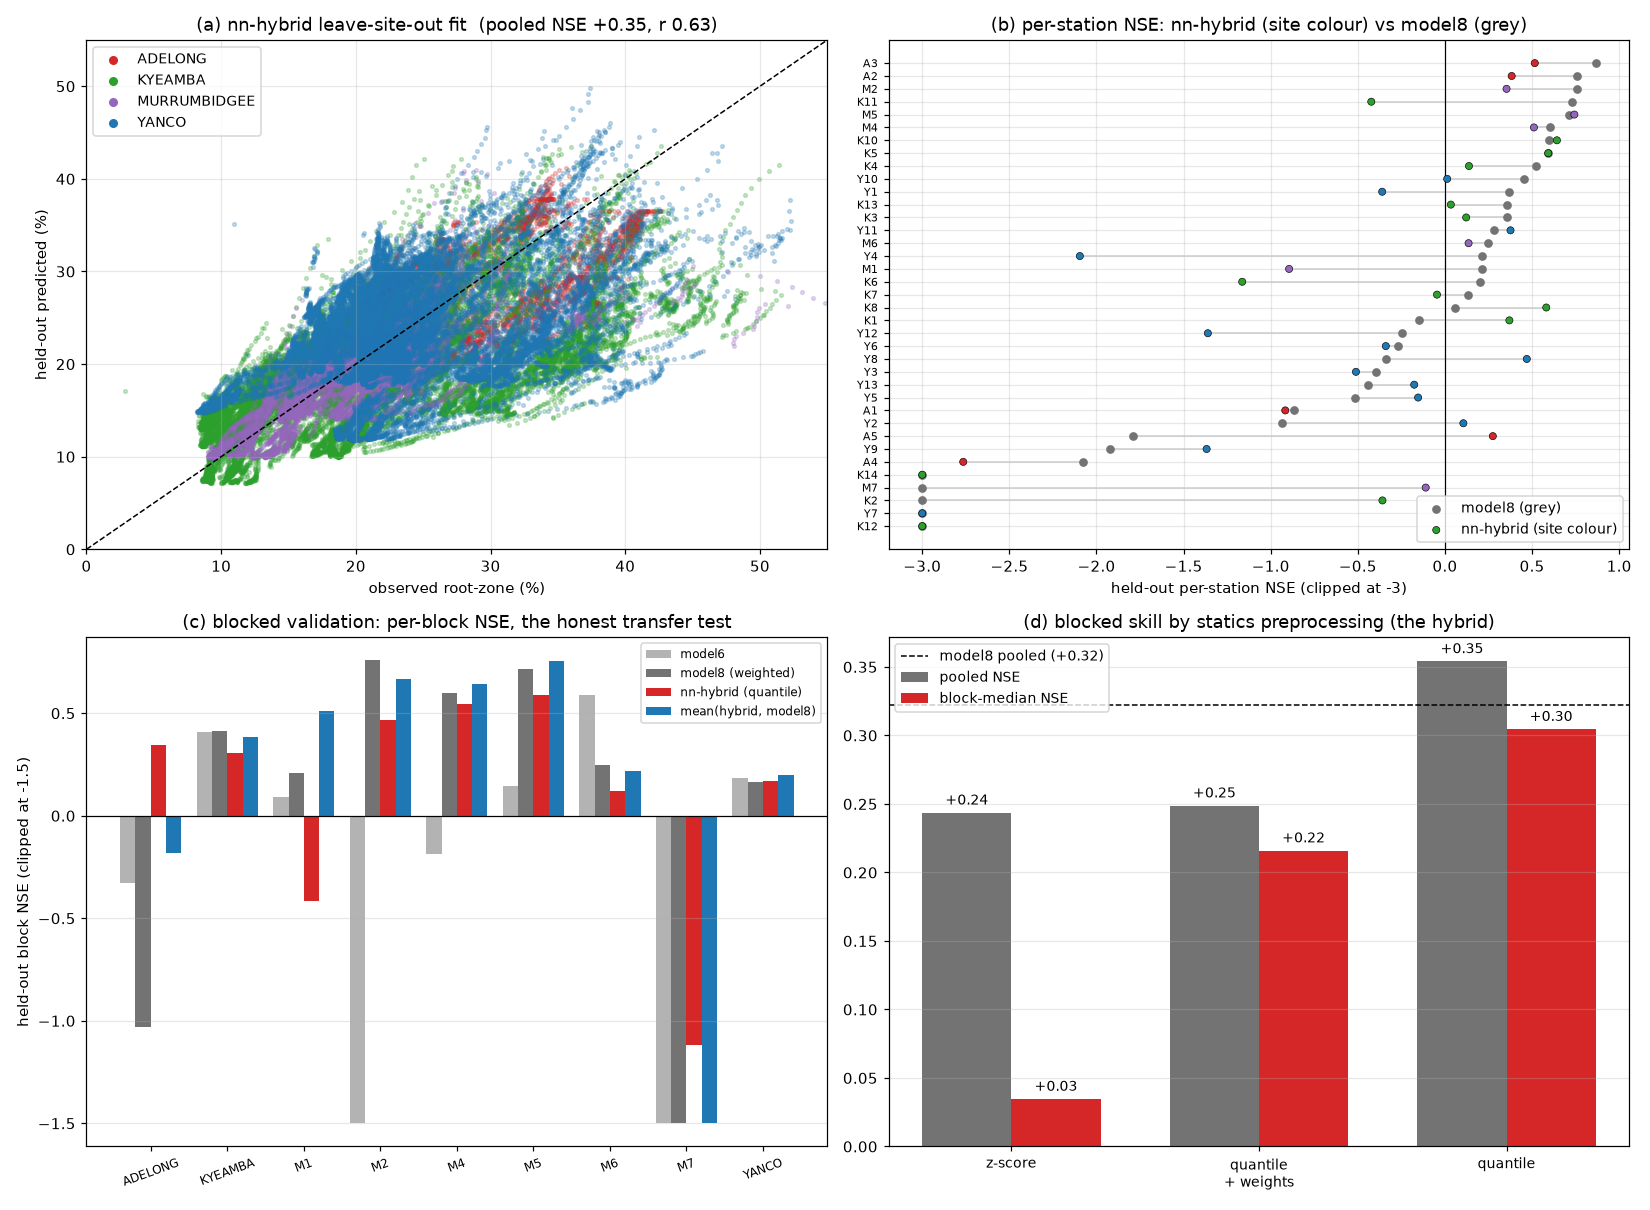
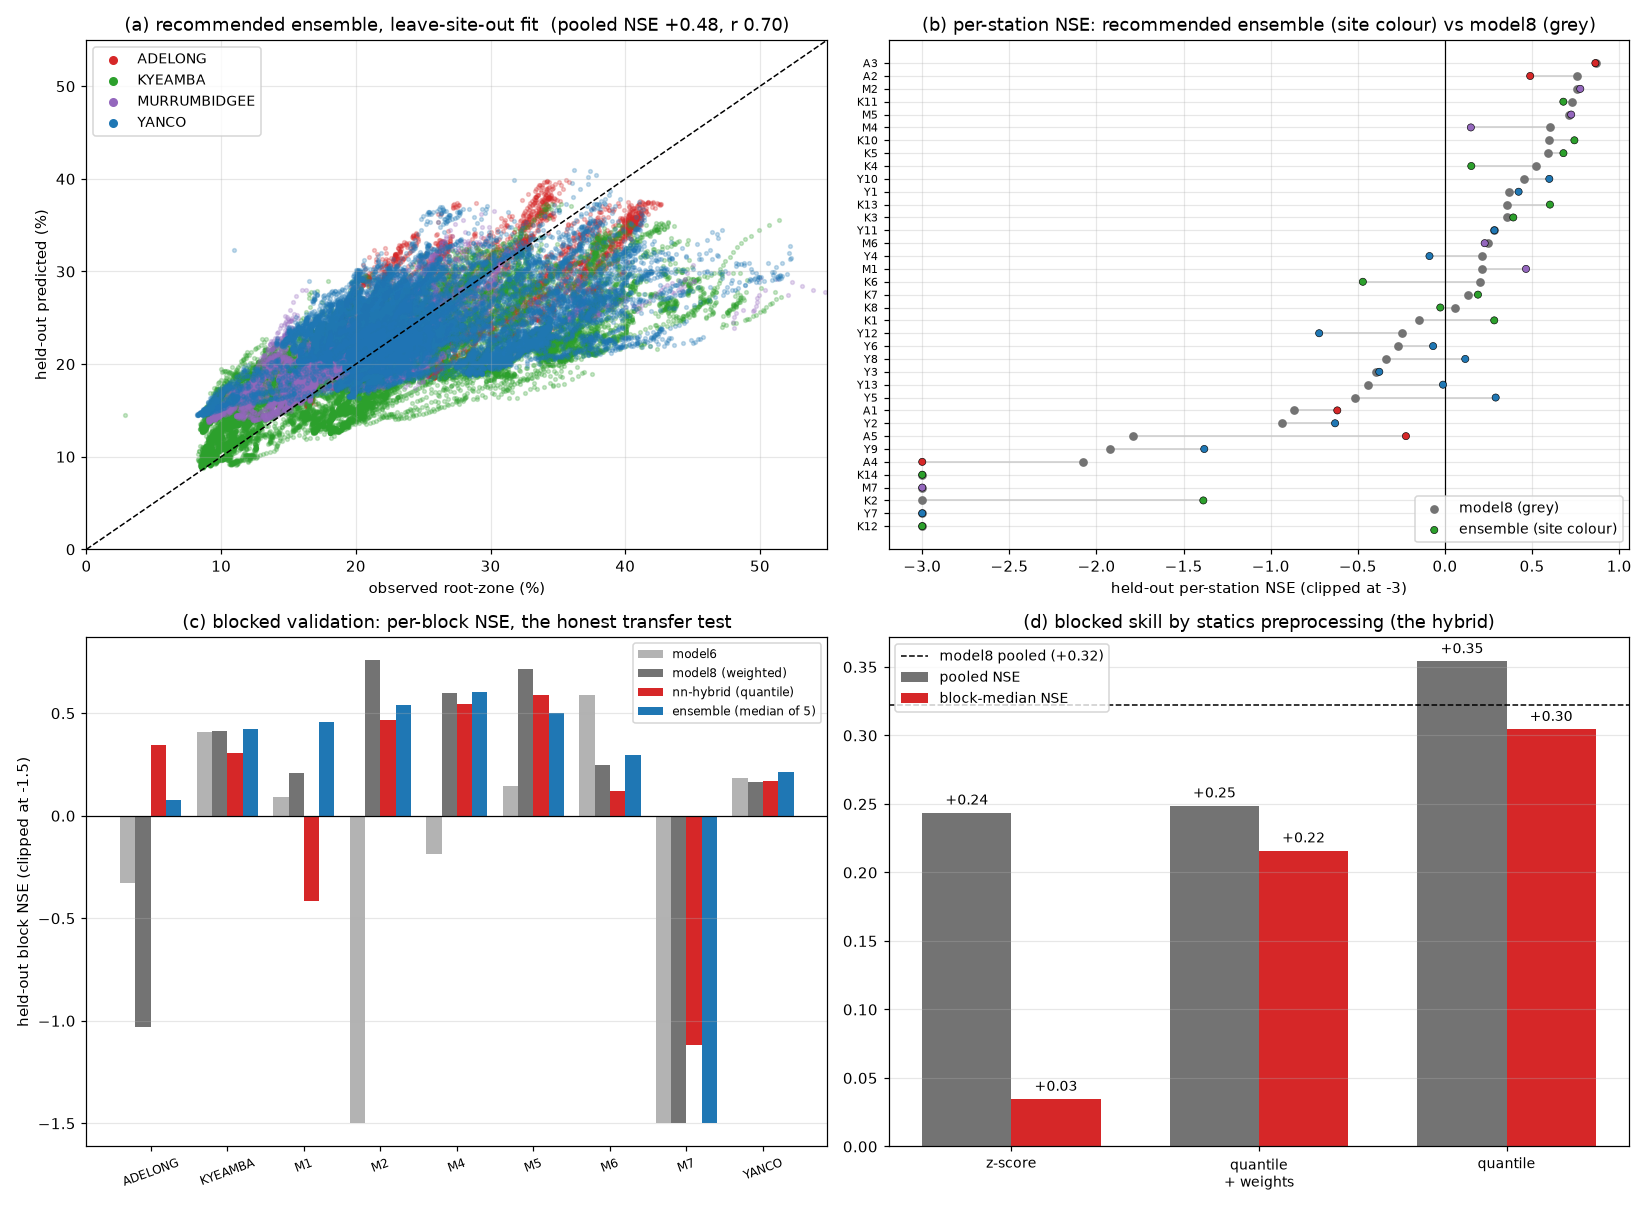
handout: comparisons and figures against the best available configuration
The results figure's panels (a)/(b) now show the RECOMMENDED ENSEMBLE
(station +0.48, r 0.70) against model8 rather than the superseded un-anchored
hybrid, and panel (c)'s blocked ladder ends at the median-of-5 ensemble. The
recommended ensembles are materialised as OOF prediction CSVs
(data/nn_ens_{station,block}cv_predictions.csv) so figures and future
analyses read them like any model's predictions; the per-station grid gains
an 'ens' product view, embedded on the nn-stack page. nn-mlp's story is
anchored to the same-features ladder (model1 Random Forest +0.15 ->
model6 +0.38 -> MLP), matching how the ML-track pages frame comparisons.

Claude-Session: https://claude.ai/code/session_01SXb94n9c4xvUwWSoCtafSS

diff --git a/handout/plot_nn_results.py b/handout/plot_nn_results.py
@@ -1,8 +1,9 @@
 """nn-track 4-panel results figure, from cached CV predictions.
 
-(a) hybrid leave-site-out fit; (b) per-station NSE, hybrid vs model8, both
-harnesses' recommended configs; (c) blocked per-block NSE across the
-candidates; (d) preprocessing attribution (the quantile result). Reads only
+(a) the recommended station ensemble's leave-site-out fit; (b) per-station
+NSE, ensemble vs model8 (the strongest single model); (c) blocked per-block
+NSE from the RF-era reference through to the recommended blocked ensemble;
+(d) preprocessing attribution on the hybrid (the quantile result). Reads only
 data/*_predictions.csv; nothing retrains.
 
 Run from repo root::  PYTHONPATH=. python handout/plot_nn_results.py
@@ -44,22 +45,22 @@ def per_block(p):
              .apply(lambda g: pd.Series(metrics(g[TARGET], g["pred"])), include_groups=False))
 
 
-hyb_s = load("nn_hybrid_q_stationcv_predictions.csv")
+ens_s = load("nn_ens_stationcv_predictions.csv")     # mean(hybrid+anchor, model8, seq-big)
 m8_s = load("model8_losocv_capacity_aridity_weighted_predictions.csv")
-hyb_s["site"] = hyb_s["station"].map(site_of)
-ps_h, ps_8 = per_site(hyb_s), per_site(m8_s)
-pooled = metrics(hyb_s[TARGET], hyb_s["pred"])
+ens_s["site"] = ens_s["station"].map(site_of)
+ps_h, ps_8 = per_site(ens_s), per_site(m8_s)
+pooled = metrics(ens_s[TARGET], ens_s["pred"])
 
 fig, ax = plt.subplots(2, 2, figsize=(15, 11))
 
 # (a) LOSO fit
 for s in SITES:
-    d = hyb_s[hyb_s.site == s]
+    d = ens_s[ens_s.site == s]
     ax[0, 0].scatter(d[TARGET], d["pred"], s=6, alpha=.25, color=SITE_COLOR[s], label=s)
 lim = [0, 55]
 ax[0, 0].plot(lim, lim, "k--", lw=1)
 ax[0, 0].set(xlim=lim, ylim=lim, xlabel="observed root-zone (%)", ylabel="held-out predicted (%)",
-             title=f"(a) nn-hybrid leave-site-out fit  (pooled NSE {pooled['nse']:+.2f}, r {pooled['r']:.2f})")
+             title=f"(a) recommended ensemble, leave-site-out fit  (pooled NSE {pooled['nse']:+.2f}, r {pooled['r']:.2f})")
 leg = ax[0, 0].legend(fontsize=9, markerscale=2)
 for lh in leg.legend_handles:
     lh.set_alpha(1)
@@ -71,14 +72,14 @@ y = np.arange(len(order))
 ax[0, 1].scatter(ps_8.loc[order, "nse"].clip(-3), y, s=22, color="0.45", label="model8 (grey)", zorder=3)
 ax[0, 1].scatter(ps_h.loc[order, "nse"].clip(-3), y, s=22,
                  color=[SITE_COLOR[site_of[s]] for s in order], zorder=4,
-                 edgecolors="k", linewidths=0.4, label="nn-hybrid (site colour)")
+                 edgecolors="k", linewidths=0.4, label="ensemble (site colour)")
 for i, s in enumerate(order):
     ax[0, 1].plot([ps_8.loc[s, "nse"].clip(-3), ps_h.loc[s, "nse"].clip(-3)], [i, i],
                   color="0.8", lw=1, zorder=2)
 ax[0, 1].axvline(0, color="k", lw=0.8)
 ax[0, 1].set_yticks(y, order, fontsize=7)
 ax[0, 1].set(xlabel="held-out per-station NSE (clipped at -3)",
-             title="(b) per-station NSE: nn-hybrid (site colour) vs model8 (grey)")
+             title="(b) per-station NSE: recommended ensemble (site colour) vs model8 (grey)")
 ax[0, 1].legend(fontsize=9, loc="lower right")
 ax[0, 1].grid(alpha=.3)
 
@@ -87,6 +88,7 @@ cands = {
     "model6": "model6_blockcv_predictions.csv",
     "model8 (weighted)": "model8_blockcv_capacity_aridity_weighted_predictions.csv",
     "nn-hybrid (quantile)": "nn_hybrid_q_blockcv_predictions.csv",
+    "ensemble (median of 5)": "nn_ens_blockcv_predictions.csv",
 }
 blocks = None
 rows = {}
@@ -94,11 +96,6 @@ for name, f in cands.items():
     pb = per_block(load(f))["nse"]
     blocks = pb.index if blocks is None else blocks
     rows[name] = pb
-ens = load("nn_hybrid_q_blockcv_predictions.csv").set_index(["station", "time"])
-m8b = load("model8_blockcv_capacity_aridity_weighted_predictions.csv").set_index(["station", "time"])
-j = ens.join(m8b["pred"], rsuffix="_m8").dropna(subset=["pred", "pred_m8"]).reset_index()
-j["pred"] = (j["pred"] + j["pred_m8"]) / 2
-rows["mean(hybrid, model8)"] = per_block(j)["nse"]
 x = np.arange(len(blocks))
 w = 0.2
 colors = ["0.7", "0.45", "#d62728", "#1f77b4"]

diff --git a/handout/plot_nn_per_station.py b/handout/plot_nn_per_station.py
@@ -27,6 +27,8 @@ MODELS = {  # key: (predictions csv, figure, title prefix)
             "nn-transformer (365-day SILO forcing window, no SMIPS)"),
     "hybrid": ("nn_hybrid_q_stationcv_predictions.csv", "nn_hybrid_per_station.png",
                "nn-hybrid (differentiable bucket, quantile statics)"),
+    "ens": ("nn_ens_stationcv_predictions.csv", "nn_ens_per_station.png",
+            "recommended ensemble: mean(nn-hybrid+anchor, model8, scaled Transformer)"),
 }
 
 tab = pd.read_csv(REPO / "data" / "process_target_2006_2010.csv")

diff --git a/handout/modules/nn_stack.md b/handout/modules/nn_stack.md
@@ -63,9 +63,23 @@ combination, so the numbers are not subset-selection artefacts. Equal-weight
 (or median) combination over diverse, individually-disciplined models is the
 recommended product configuration.
 
+The recommended configurations as figures — (a)/(b) the station ensemble
+against model8, (c) the blocked ladder ending at the median-of-5:
+
+![nn-track results](../figures/nn_track_results.png)
+
+And the station ensemble's held-out series at every station — the product
+view; compare the same grid on the [model8](model8.md) and
+[nn-hybrid](nn_hybrid.md) pages:
+
+![recommended ensemble per-station held-out time series](../figures/nn_ens_per_station.png)
+
 ## Reproduce
 
 ```bash
+# the learned combiners (negative result)
 PYTHONPATH=. python -m emt.nn.stack cv --design block  --workers 9
 PYTHONPATH=. python -m emt.nn.stack cv --design station --workers 12
+# the recommended ensembles are plain aggregation of the cached OOF
+# predictions -- see emt/nn/README.md "Current standings" for the recipes
 ```

diff --git a/handout/modules/nn_mlp.md b/handout/modules/nn_mlp.md
@@ -26,8 +26,14 @@ lifts the low-variance dry sites to parity at no pooled cost.
 
 ## Results — leave-station-out (37 stations, 2006–2010)
 
+The same-features ladder, so the estimator is the only variable: the
+[model1 Random Forest](model1.md) baseline scored pooled **+0.15** on this
+feature set and [model6](model6.md)'s tuned boosting **+0.38**; the MLP's job
+was to find where a net sits between them.
+
 | configuration | pooled NSE | stations NSE>0 | median stn NSE | median r |
 |---|---|---|---|---|
+| model1 · Random Forest (baseline, same features) | +0.15 | | | |
 | MSE loss, z-score | +0.303 | 14/37 | −0.48 | 0.77 |
 | NSE\* loss, z-score | +0.329 | 12/37 | −0.49 | 0.78 |
 | + log1p on heavy tails | +0.288 | 15/37 | −0.35 | 0.78 |

diff --git a/handout/modules/nn_hybrid.md b/handout/modules/nn_hybrid.md
@@ -56,6 +56,11 @@ by district (within-aridity-tercile correlation with the true site mean is
 0.38–0.61, pooled only 0.34), so the learned correction transfers partially.
 Both variants earn ensemble seats ([nn-stack](nn_stack.md)).
 
+The track results figure (shared with [nn-stack](nn_stack.md)): panels (a)
+and (b) show the **recommended ensemble** — the best configuration available —
+against model8; panel (c) the blocked ladder from model6 to the blocked
+ensemble; panel (d) this page's preprocessing attribution:
+
 ![nn-track results](../figures/nn_track_results.png)
 
 Held-out series for every station — compare the same figure on the
